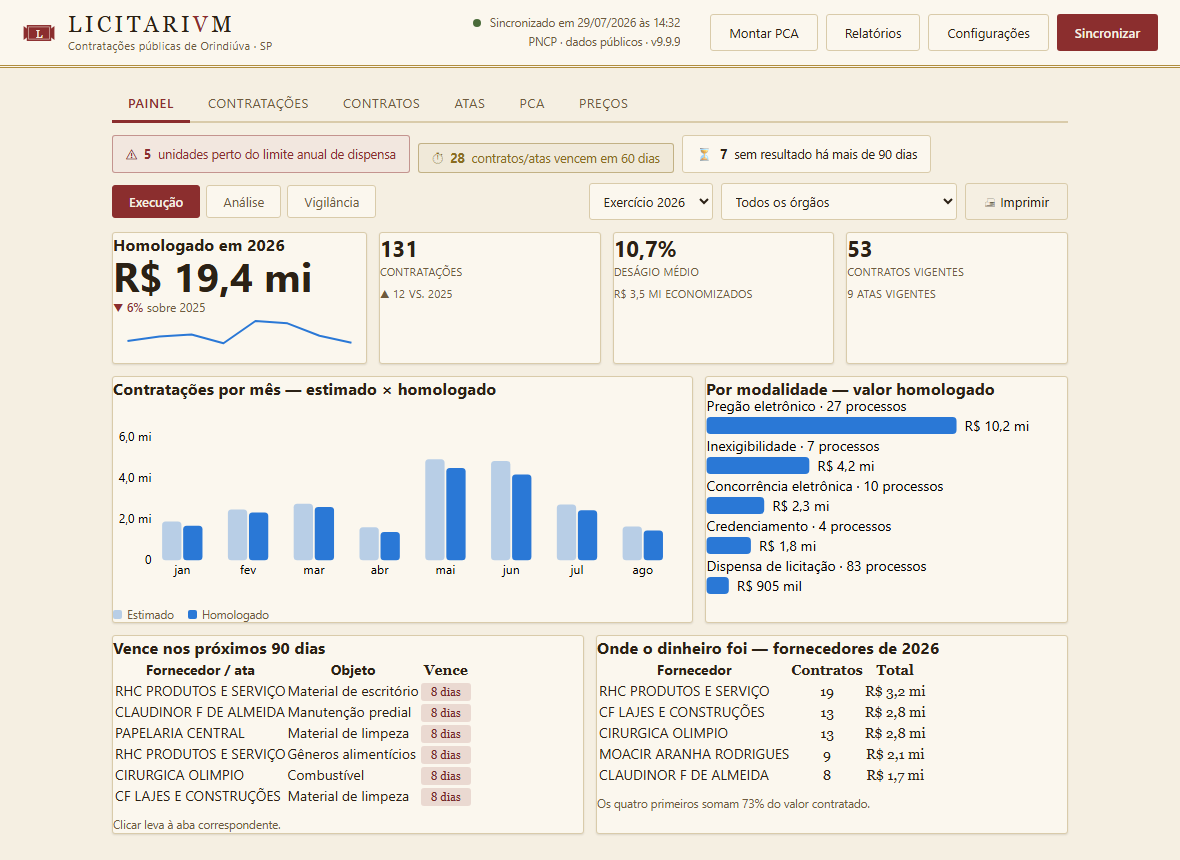
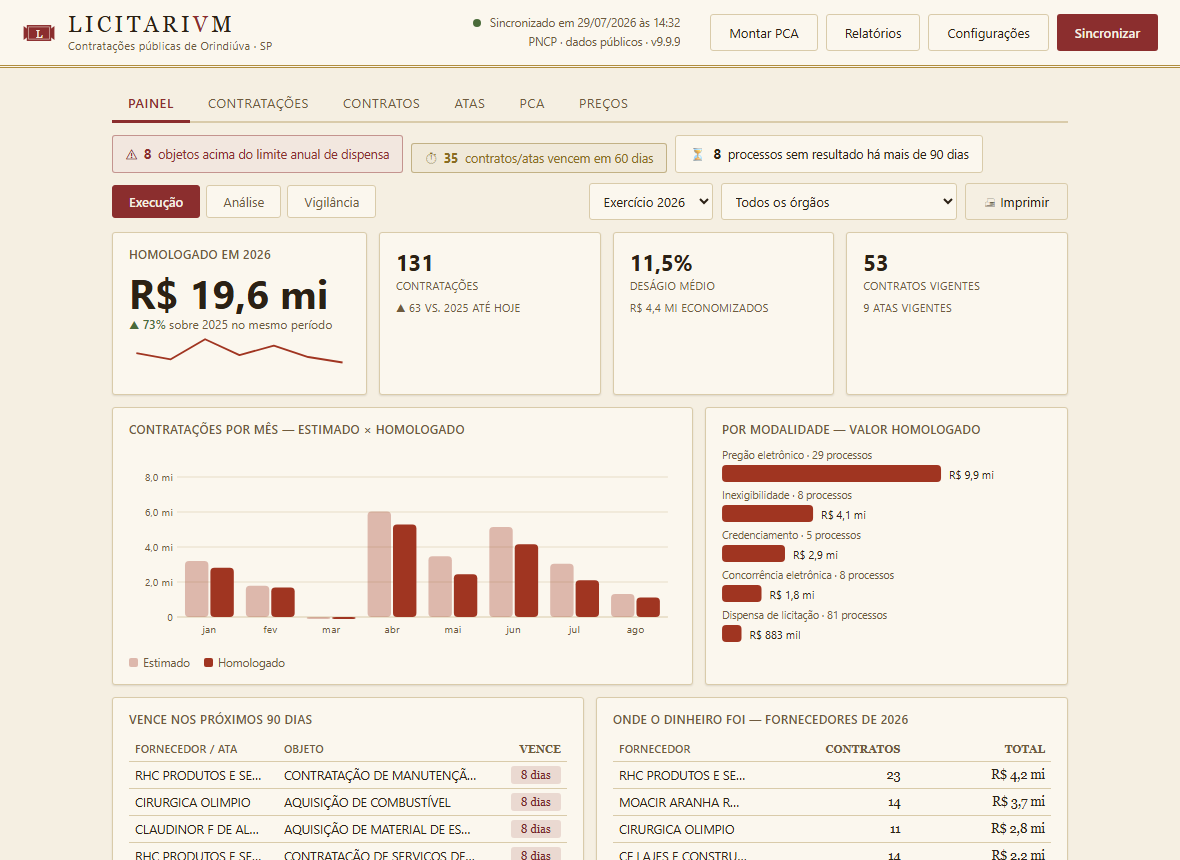
feat: uma paleta de graficos por tema, cada uma validada
No pergaminho as barras azuis liam como corpo estranho sobre papel
sepia. As series viraram terracota, ocre, verde e ardosia — validadas
contra a superficie #fbf7ee pelo script dos seis checks. A ardosia e
fria de proposito: quatro tons quentes nao se separam sob daltonismo, e
sem ela a paleta reprova.

No observatorio o mapa de calor quase nao diferenciava os niveis: os
degraus vinham do tema claro e, sobre fundo escuro, dois azuis proximos
viram a mesma cor. Rampa refeita com passo minimo de 0,066 de
luminosidade entre vizinhos, monotonica do escuro ao claro.

O documento impresso acompanha o pergaminho, que e o tema do papel.

diff --git a/ui/estilo.css b/ui/estilo.css
@@ -384,13 +384,22 @@ details.raw pre { background:var(--surface2); border-radius:var(--radius);
    Os gráficos são SVG desenhado no próprio app — sem biblioteca, sem rede.
    As cores de série vêm daqui, e não do tema: foram validadas para daltonismo
    e contraste sobre as superfícies clara e escura (ver design/DASHBOARD.md). */
-:root, [data-theme="portal"], [data-theme="pergaminho"] {
+:root, [data-theme="portal"] {
   --s1:#2a78d6; --s2:#eb6834; --s3:#1baf7a; --s4:#eda100;
   --seq1:#cde2fb; --seq2:#9ec5f4; --seq3:#5598e7; --seq4:#2a78d6; --seq5:#1c5cab;
 }
+/* O pergaminho é tinta sobre papel: séries em terra, validadas contra a
+   superfície #fbf7ee — terracota, ocre, verde e ardósia. A ardósia é fria de
+   propósito; sem ela, quatro tons quentes não se separam sob daltonismo. */
+[data-theme="pergaminho"] {
+  --s1:#a03521; --s2:#c98a00; --s3:#1f8a52; --s4:#3f5fa8;
+  --seq1:#f0e2c6; --seq2:#ddc294; --seq3:#c19d5c; --seq4:#96702c; --seq5:#5d4415;
+}
 [data-theme="observatorio"] {
   --s1:#3987e5; --s2:#d95926; --s3:#199e70; --s4:#c98500;
-  --seq1:#184f95; --seq2:#256abf; --seq3:#2a78d6; --seq4:#5598e7; --seq5:#9ec5f4;
+  /* degraus mais espaçados que os do tema claro: sobre fundo escuro, dois
+     azuis próximos viram a mesma cor e o mapa de calor deixa de informar */
+  --seq1:#123a6e; --seq2:#1c5cab; --seq3:#2a78d6; --seq4:#5598e7; --seq5:#b7d3f6;
 }
 .painel-topo { display:flex; align-items:center; gap:8px; flex-wrap:wrap;
                margin:4px 0 12px; }

diff --git a/MANUAL.html b/MANUAL.html
@@ -2,11 +2,11 @@
 <html lang="pt-BR">
 <head>
 <meta charset="utf-8">
-<title>Manual Operacional — Licitarium v1.10.2</title>
+<title>Manual Operacional — Licitarium v1.10.3</title>
 <style>
   @page {
     size: A4; margin: 2cm 1.8cm;
-    @top-center { content: "Licitarium v1.10.2 — Manual Operacional"; font-size: 9pt; color: #6f5b3e; }
+    @top-center { content: "Licitarium v1.10.3 — Manual Operacional"; font-size: 9pt; color: #6f5b3e; }
     @bottom-right { content: "Página " counter(page) " de " counter(pages);
                     font-size: 9pt; color: #6f5b3e; }
   }
@@ -150,7 +150,7 @@
           fill="var(--text)" text-anchor="middle">MMXXVI</text>
   </svg>
   <h1 class="mark">LICITARI<b>V</b>M</h1>
-  <div class="subtitulo">MANUAL DO USUÁRIO · VERSÃO 1.10.2</div>
+  <div class="subtitulo">MANUAL DO USUÁRIO · VERSÃO 1.10.3</div>
 </header>
 
 <h2>1. O que é o Licitarium</h2>
@@ -165,7 +165,7 @@ sincronizado e se atualiza sozinho a cada abertura. O Licitarium apenas
 <h2>2. Instalação</h2>
 <h3>Pelo executável (recomendado)</h3>
 <ol>
-  <li>Baixe o <code>Licitarium.v1.10.2.exe</code> na página de releases do
+  <li>Baixe o <code>Licitarium.v1.10.3.exe</code> na página de releases do
       projeto — o nome do arquivo traz a versão, então dá para saber qual
       você tem sem abrir o programa.</li>
   <li>Execute. Não precisa instalar, nem ter Python, nem direitos de administrador.</li>

diff --git a/relatorios.py b/relatorios.py
@@ -1312,9 +1312,11 @@ def render_executivo(d, municipio, uf, tema="pergaminho"):
 # validadas para daltonismo e contraste —, e `print-color-adjust: exact` é o
 # que impede o navegador de "economizar tinta" e devolver barras cinzentas.
 CSS_PAINEL = """
-  :root { --s1:#2a78d6; --s2:#eb6834; --s3:#1baf7a; --s4:#eda100;
-          --seq1:#cde2fb; --seq2:#9ec5f4; --seq3:#5598e7; --seq4:#2a78d6;
-          --seq5:#1c5cab; --surface:#fbf7ee; --surface2:#efe6d2;
+  /* o documento imprime no pergaminho (papel é papel), então as séries são
+     as daquele tema — validadas contra a superfície #fbf7ee */
+  :root { --s1:#a03521; --s2:#c98a00; --s3:#1f8a52; --s4:#3f5fa8;
+          --seq1:#f0e2c6; --seq2:#ddc294; --seq3:#c19d5c; --seq4:#96702c;
+          --seq5:#5d4415; --surface:#fbf7ee; --surface2:#efe6d2;
           --muted:var(--suave); --text:var(--texto); --border:var(--borda);
           --accent:var(--acento); --accent-fg:#ffffff; --erro:var(--alerta);
           --warn:var(--atencao); --ok:#2f7d32; --pill:99px;

diff --git a/licitarium.py b/licitarium.py
@@ -26,7 +26,7 @@ import pca_builder
 import pncp
 import relatorios
 
-VERSAO = "1.10.2"
+VERSAO = "1.10.3"
 # dentro do exe onefile os arquivos ficam na pasta temporária do bundle;
 # _MEIPASS é o caminho oficial para chegar até eles
 DIR_APP = Path(getattr(sys, "_MEIPASS", Path(__file__).resolve().parent))

diff --git a/design/DASHBOARD.md b/design/DASHBOARD.md
@@ -42,10 +42,27 @@ piso de visão normal e contraste contra a superfície.
 
 ### Paleta
 
-As cores de série vivem em `ui/estilo.css` (`--s1…--s4`, `--seq1…--seq5`) e
-**não mudam com o tema**: foram validadas contra a superfície clara e a escura,
-e trocá-las por tema exigiria validar uma paleta nova para cada pele. O tema
-manda no papel de parede, não no significado do dado.
+As cores de série vivem em `ui/estilo.css` (`--s1…--s4`, `--seq1…--seq5`), com
+**uma paleta por tema** — cada uma validada contra a própria superfície pelo
+script dos seis checks:
+
+| Tema | Séries | Rampa |
+|---|---|---|
+| Portal | azul, laranja, aqua, amarelo | azul, claro → escuro |
+| Pergaminho | terracota, ocre, verde, ardósia | sépia, claro → escuro |
+| Observatório | azul, laranja, verde, ocre (tons escuros) | azul, escuro → claro |
+
+O Pergaminho não podia herdar o azul do Portal: sobre papel sépia ele lê como
+corpo estranho. Mas quatro tons quentes não se separam sob daltonismo — daí a
+ardósia fria na quarta posição, que é o que faz a paleta passar nos checks.
+
+A rampa do Observatório tem degraus mais espaçados que a do tema claro: sobre
+fundo escuro, dois azuis próximos viram a mesma cor e o mapa de calor deixa de
+informar. Passo mínimo de luminosidade entre vizinhos: 0,066.
+
+**O que não muda com o tema é o significado**: dentro de um gráfico, a mesma
+posição de série é sempre a mesma cor, e nenhuma paleta usa cor sozinha para
+identificar.
 
 ## O que cada número é (e não é)
 

diff --git a/CHANGELOG.md b/CHANGELOG.md
@@ -1,5 +1,18 @@
 # Changelog
 
+## 1.10.3 — 2026-08-05
+
+**Cada tema com a sua paleta de gráficos**
+
+- No **Pergaminho**, as barras azuis liam como corpo estranho sobre o papel
+  sépia. As séries passam a ser **terracota, ocre, verde e ardósia**, validadas
+  contra a superfície do tema — a ardósia fria fica na quarta posição porque
+  quatro tons quentes não se separam sob daltonismo.
+- No **Observatório**, o mapa de calor quase não diferenciava os níveis: os
+  degraus da rampa eram próximos demais para fundo escuro. Refeitos com mais
+  separação de luminosidade.
+- O **relatório impresso** acompanha o Pergaminho, que é o tema do papel.
+
 ## 1.10.2 — 2026-08-05
 
 **O Painel passa a usar a tela**
